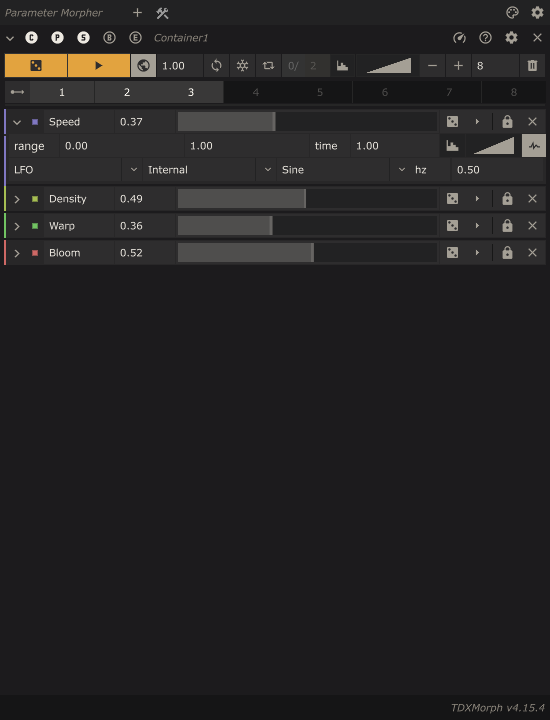
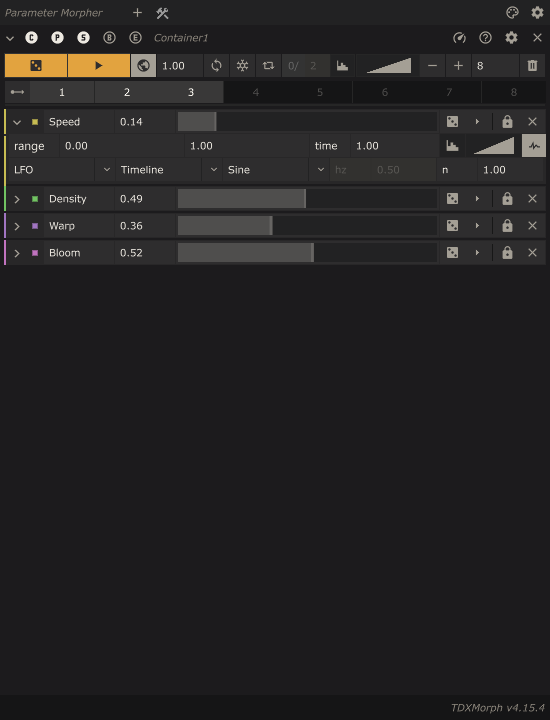
docs: add the component index and a PresetSnap section
The Overview now opens with the eight component cards, so a reader sees
the whole release before the individual tools. Its versions are
regenerated from the design sheet and match the download table.

PresetSnap had no entry at all despite being part of the free set. Its
editor is the honest picture of it: the component is headless, so the
tracked parameter list with its mode and value columns is the only
surface it has.

The ParameterMorpher shot now shows the signal on Timeline sync rather
than Internal. That is the new mode, and it reads differently: the free
running rate greys out and repetitions take its place.

https://claude.ai/code/session_01VEtRcBoLpFTPxXTkcQQPDY

diff --git a/README.md b/README.md
@@ -106,6 +106,10 @@ To get started and learn everything TDXMorph has to offer, check out the tutoria
 
 Here a quick overview of the main tools to give you a quick idea. 
 
+All eight components at a glance:
+
+<img src="Assets/component-index.png" width="900">
+
 #### Preset Manager
 
 UI-less node to store, recall, and morph parameter states across multiple TouchDesigner nodes. The core of the TDXMorph architecture.
@@ -123,6 +127,12 @@ A powerful drag-and-drop front end for generating automatic UIs, enabling morphi
 A minimalistic controller for cueing and managing scenes from arbitrary presets, featuring follow actions, randomization, and versatile tools for intuitive scene sequencing. 
 
 <img src="Assets/scenelauncher.png" width="900">
+
+#### PresetSnap
+
+Plain store and recall for any COMP, with no morph engine. It is headless: drop it in and a `Presets` page appears on the host, so storing and recalling are ordinary parameters and stay MIDI and OSC mappable. Its editor lists every tracked parameter with its mode and value.
+
+<img src="Assets/presetsnap.png" width="700">
 
 # Shortcuts
 
